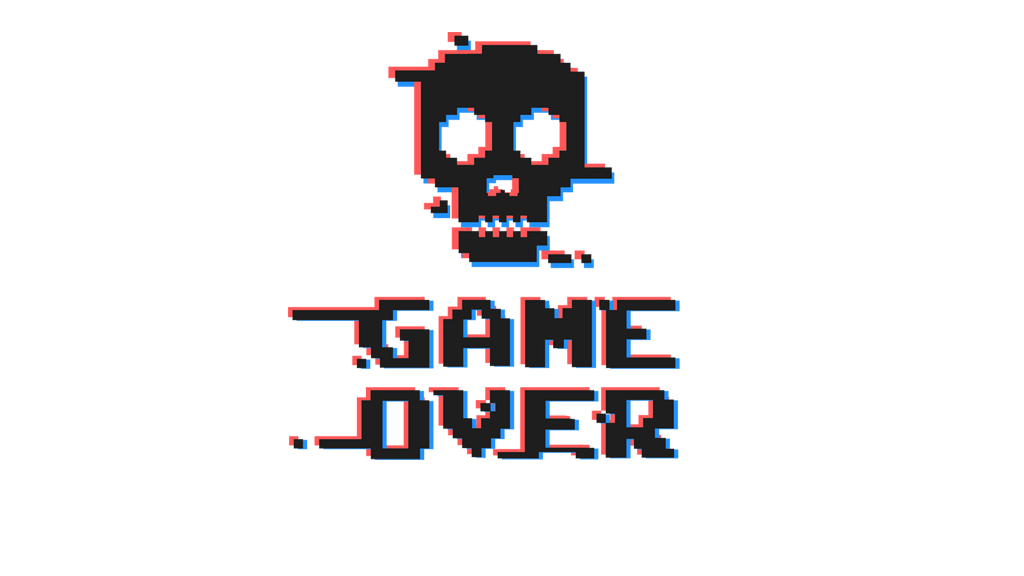
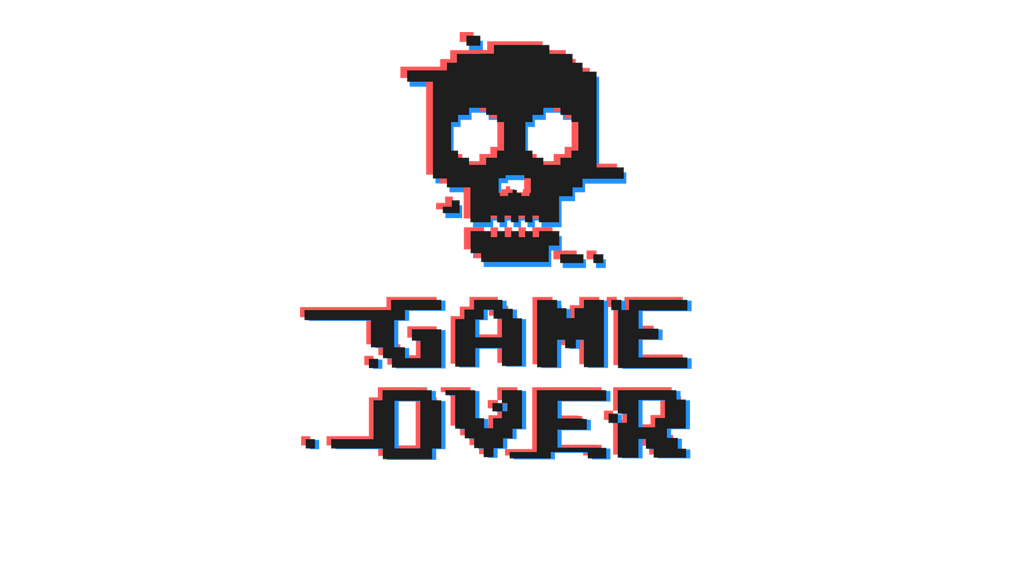
changed gameover screen

diff --git a/src/Woralcoholics/game/Game.java b/src/Woralcoholics/game/Game.java
@@ -394,11 +394,11 @@ public class Game extends Canvas implements Runnable {
         clearHandler();
         g.setColor(Color.lightGray);
         g.fillRect(0, 0, SCREEN_WIDTH, SCREEN_HEIGHT);
-        g.setColor(Color.black);
+        g.setColor(Color.DARK_GRAY);
         //g.drawString("GAME OVER", 200, 200);
-        g.setFont(new Font("DEBUG FREE TRIAL", Font.PLAIN, 55));
+        g.setFont(new Font("DEBUG FREE TRIAL", Font.PLAIN, 75));
         g.drawImage(imgOver,1,1,null);
-        g.drawString("your Score was " + lastScore , 320, SCREEN_HEIGHT -80 );
+        g.drawString("your Score is " + lastScore , 300, SCREEN_HEIGHT -65 );
         //g.drawString("Press LMB to Start again", SCREEN_WIDTH / 2, SCREEN_HEIGHT * 3 / 4);
     }
 
@@ -453,12 +453,15 @@ public class Game extends Canvas implements Runnable {
         if (handler.del == 0) {
             g.setColor(Color.cyan);
             g.drawString("MACHINE GUN", 210, 95);
+            currGun = an.getImage(2,10,64,64);
         } else if (handler.del == 200) {
             g.setColor(Color.cyan);
             g.drawString("PISTOL", 210, 95);
+            currGun = an.getImage(3,10,64,64);
         } else if (handler.del == 1000) {
             g.setColor(Color.cyan);
             g.drawString("SHOTGUN", 210, 95);
+            currGun = an.getImage(1,10,64,64);
         }
 
         if (hp >= 70)
@@ -618,7 +621,6 @@ public class Game extends Canvas implements Runnable {
         }
         handler.addObject(new GunnerEnemy(500, 500, ID.GunnerEnemy, handler, an, score)); //Test Gunner
         loaded = true;
-        currGun = an.getImage(2,10,64,64);
         playBackgroundSound();
         //System.out.println("NEW GAME");
     }
